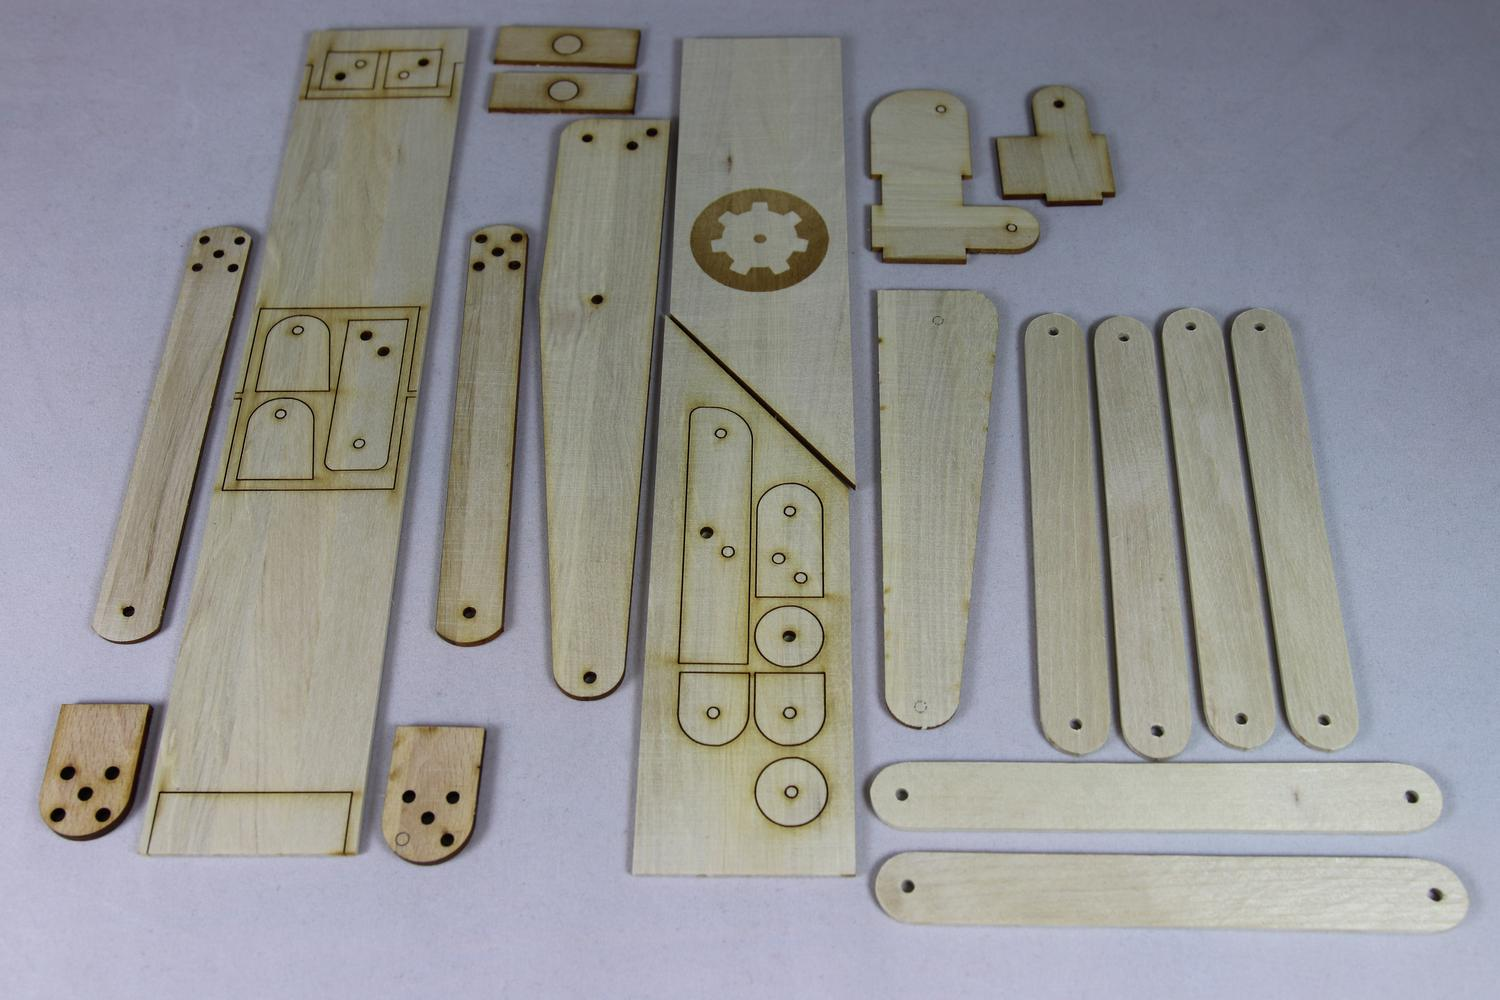
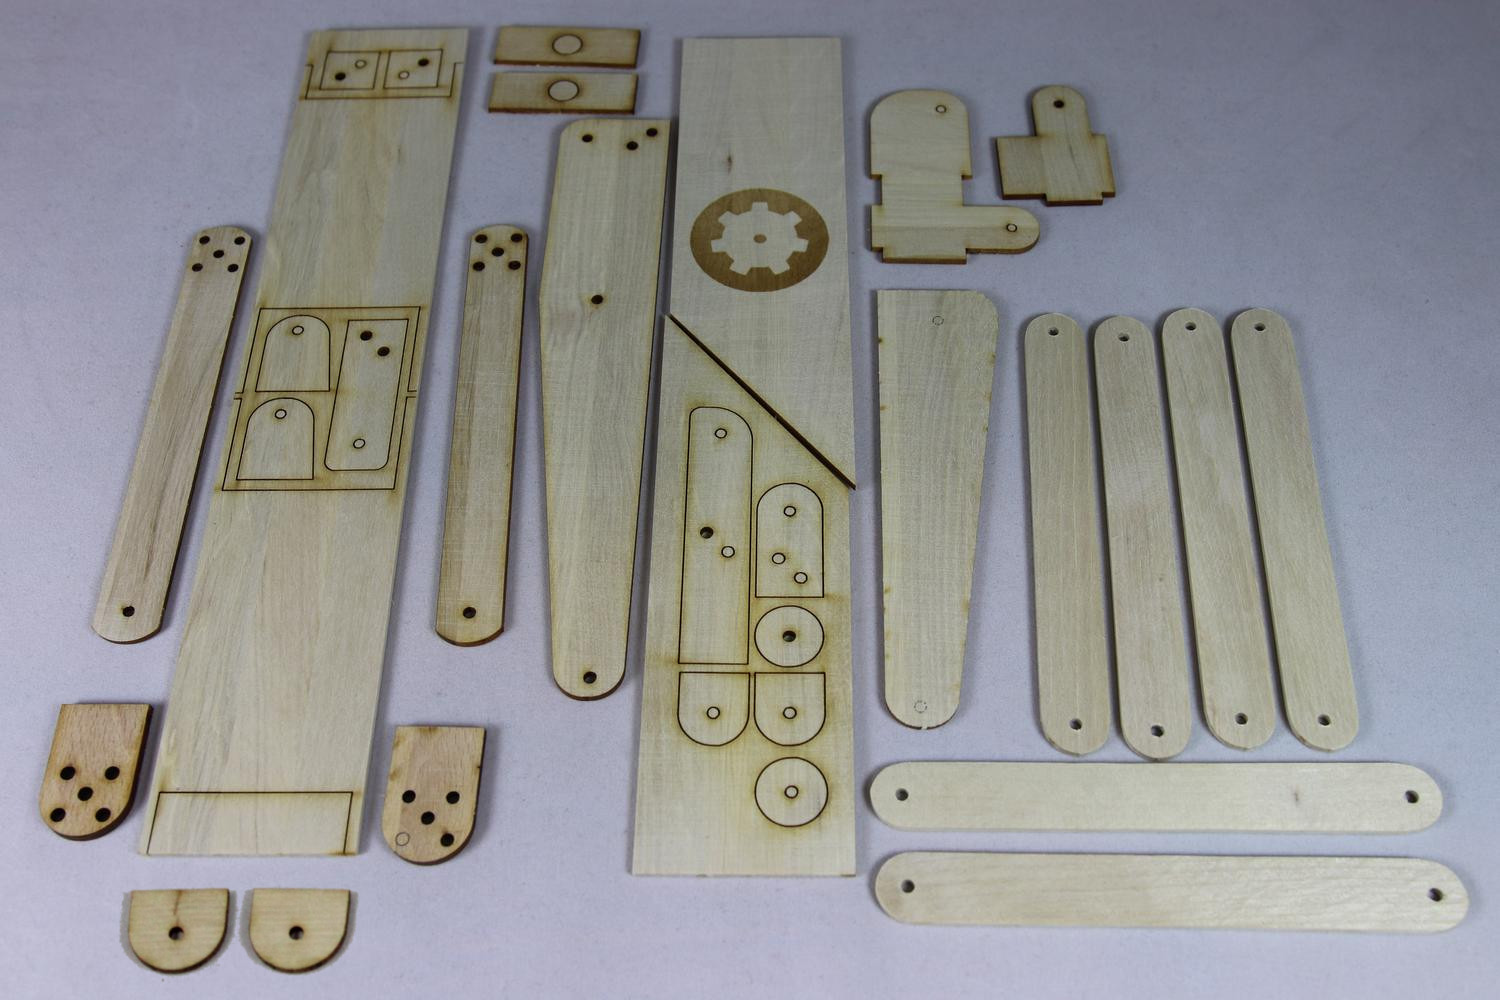
Chassis, repaired gathering of parts for initial step.

Changed region(s): [[0.0613, 0.868, 0.2453, 0.992]]

diff --git a/_guides/006b - Ruka.md b/_guides/006b - Ruka.md
@@ -12,7 +12,7 @@ name: Ruka
  {% include image.html
     url="img/guides/HND_03.jpg"
     description=
-        "Začneme slepením dolního dílu ruky. Připravíme si k tomu potřebné dílky."
+        "Začneme slepením dolního dílu ruky. Připravíme si k tomu potřebné dílky. Pozor, dva nejmenší díly dole uprostřed jsou ty z předchozího obrázku vlevo dole. Jsou větší než jim podobné menší kusy z desky s logem Robotárny."
     url2="img/guides/HND_04a.jpg"
     description2=
         "V prvním části kroku nasadíme na bočnici zakulacené díly potřené lepidlem. Zatím nedomačkáváme. K přesnému umístění použijeme šrouby. V druhé části nasadíme spodní díl mezi zakulacené díly. V třetí části posuneme spodní díl co nejvíce dolů, což dále zpřesní polohu zakulacených dílů před zaschnutím. Zakulacené díly domáčkneme svorkami. Před zaschnutím odstraníme spodní díl."
